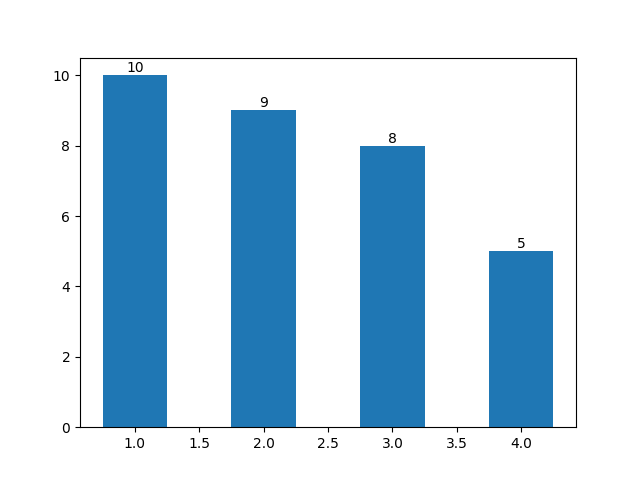
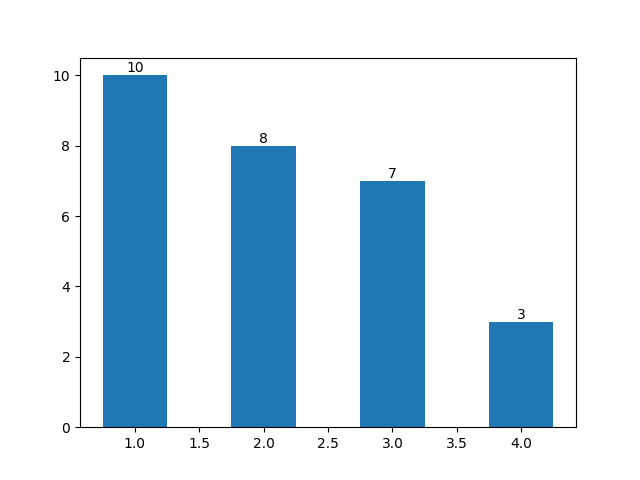
try to fix merge

Changed region(s): [[0.75, 0.5, 0.875, 0.6875], [0.3438, 0.1875, 0.4688, 0.3125], [0.5625, 0.2812, 0.6875, 0.375]]

diff --git a/image_gen.py b/image_gen.py
@@ -3,6 +3,7 @@ import numpy as np #used for arrays
 
 #At certain intervals, a screenshot of the algorithm is saved using matplotlib
 def take_screenshot(pictures_taken, arr, indices):
+    if (len(arr) == 0): return pictures_taken 
     plt.clf()
     barC = plt.bar(indices, arr, width=2/len(arr))
     plt.bar_label(barC, arr)
@@ -89,10 +90,12 @@ def mergeSort_back (arr, low, high, indices, loop_called):
         # Recursively sort halves
         loop_called = mergeSort_back(arr, low, mid, indices, loop_called)
         loop_called = mergeSort_back(arr, mid + 1, high, indices, loop_called)
-        
+        loop_called = take_screenshot(loop_called, arr[low:high-1], indices[low:high-1])
+
         # Merge the sorted halves
         loop_called = merge(arr, low, mid, high, indices, loop_called)
-        
+        loop_called = take_screenshot(loop_called, arr[low:high-1], indices[low:high-1])
+
     return loop_called
 
 def merge(arr, low, mid, high, indices, loop_called):
@@ -111,9 +114,7 @@ def merge(arr, low, mid, high, indices, loop_called):
         else:
             arr[k] = right_part[j]
             j += 1
-        
-        # Take a screenshot of the WHOLE array after every single placement
-        loop_called = take_screenshot(loop_called, arr, indices)
+        loop_called = take_screenshot(loop_called, arr[low:high-1], indices[low:high-1])
         k += 1
         
     # Clean up remaining elements
@@ -121,15 +122,16 @@ def merge(arr, low, mid, high, indices, loop_called):
         arr[k] = left_part[i]
         i += 1
         k += 1
-        loop_called = take_screenshot(loop_called, arr, indices)
         
     while j < len(right_part):
         arr[k] = right_part[j]
         j += 1
         k += 1
-        loop_called = take_screenshot(loop_called, arr, indices)
-        
+    
+    loop_called = take_screenshot(loop_called, arr[low:high-1], indices[low:high-1])
     return loop_called
+
+mergeSort_front([10, 8, 7, 3])
 
 # QuickSort
 

diff --git a/main.py b/main.py
@@ -140,7 +140,6 @@ def chooseAlgorithm():
             totalImages = count_sort(textA)
         case "Quick Sort":
             totalImages = quick_sort_front(textA)
-            print(f"Quick Sort generated {totalImages} frames.")
             pass
         case "Merge Sort":
             totalImages = mergeSort_front(textA)
